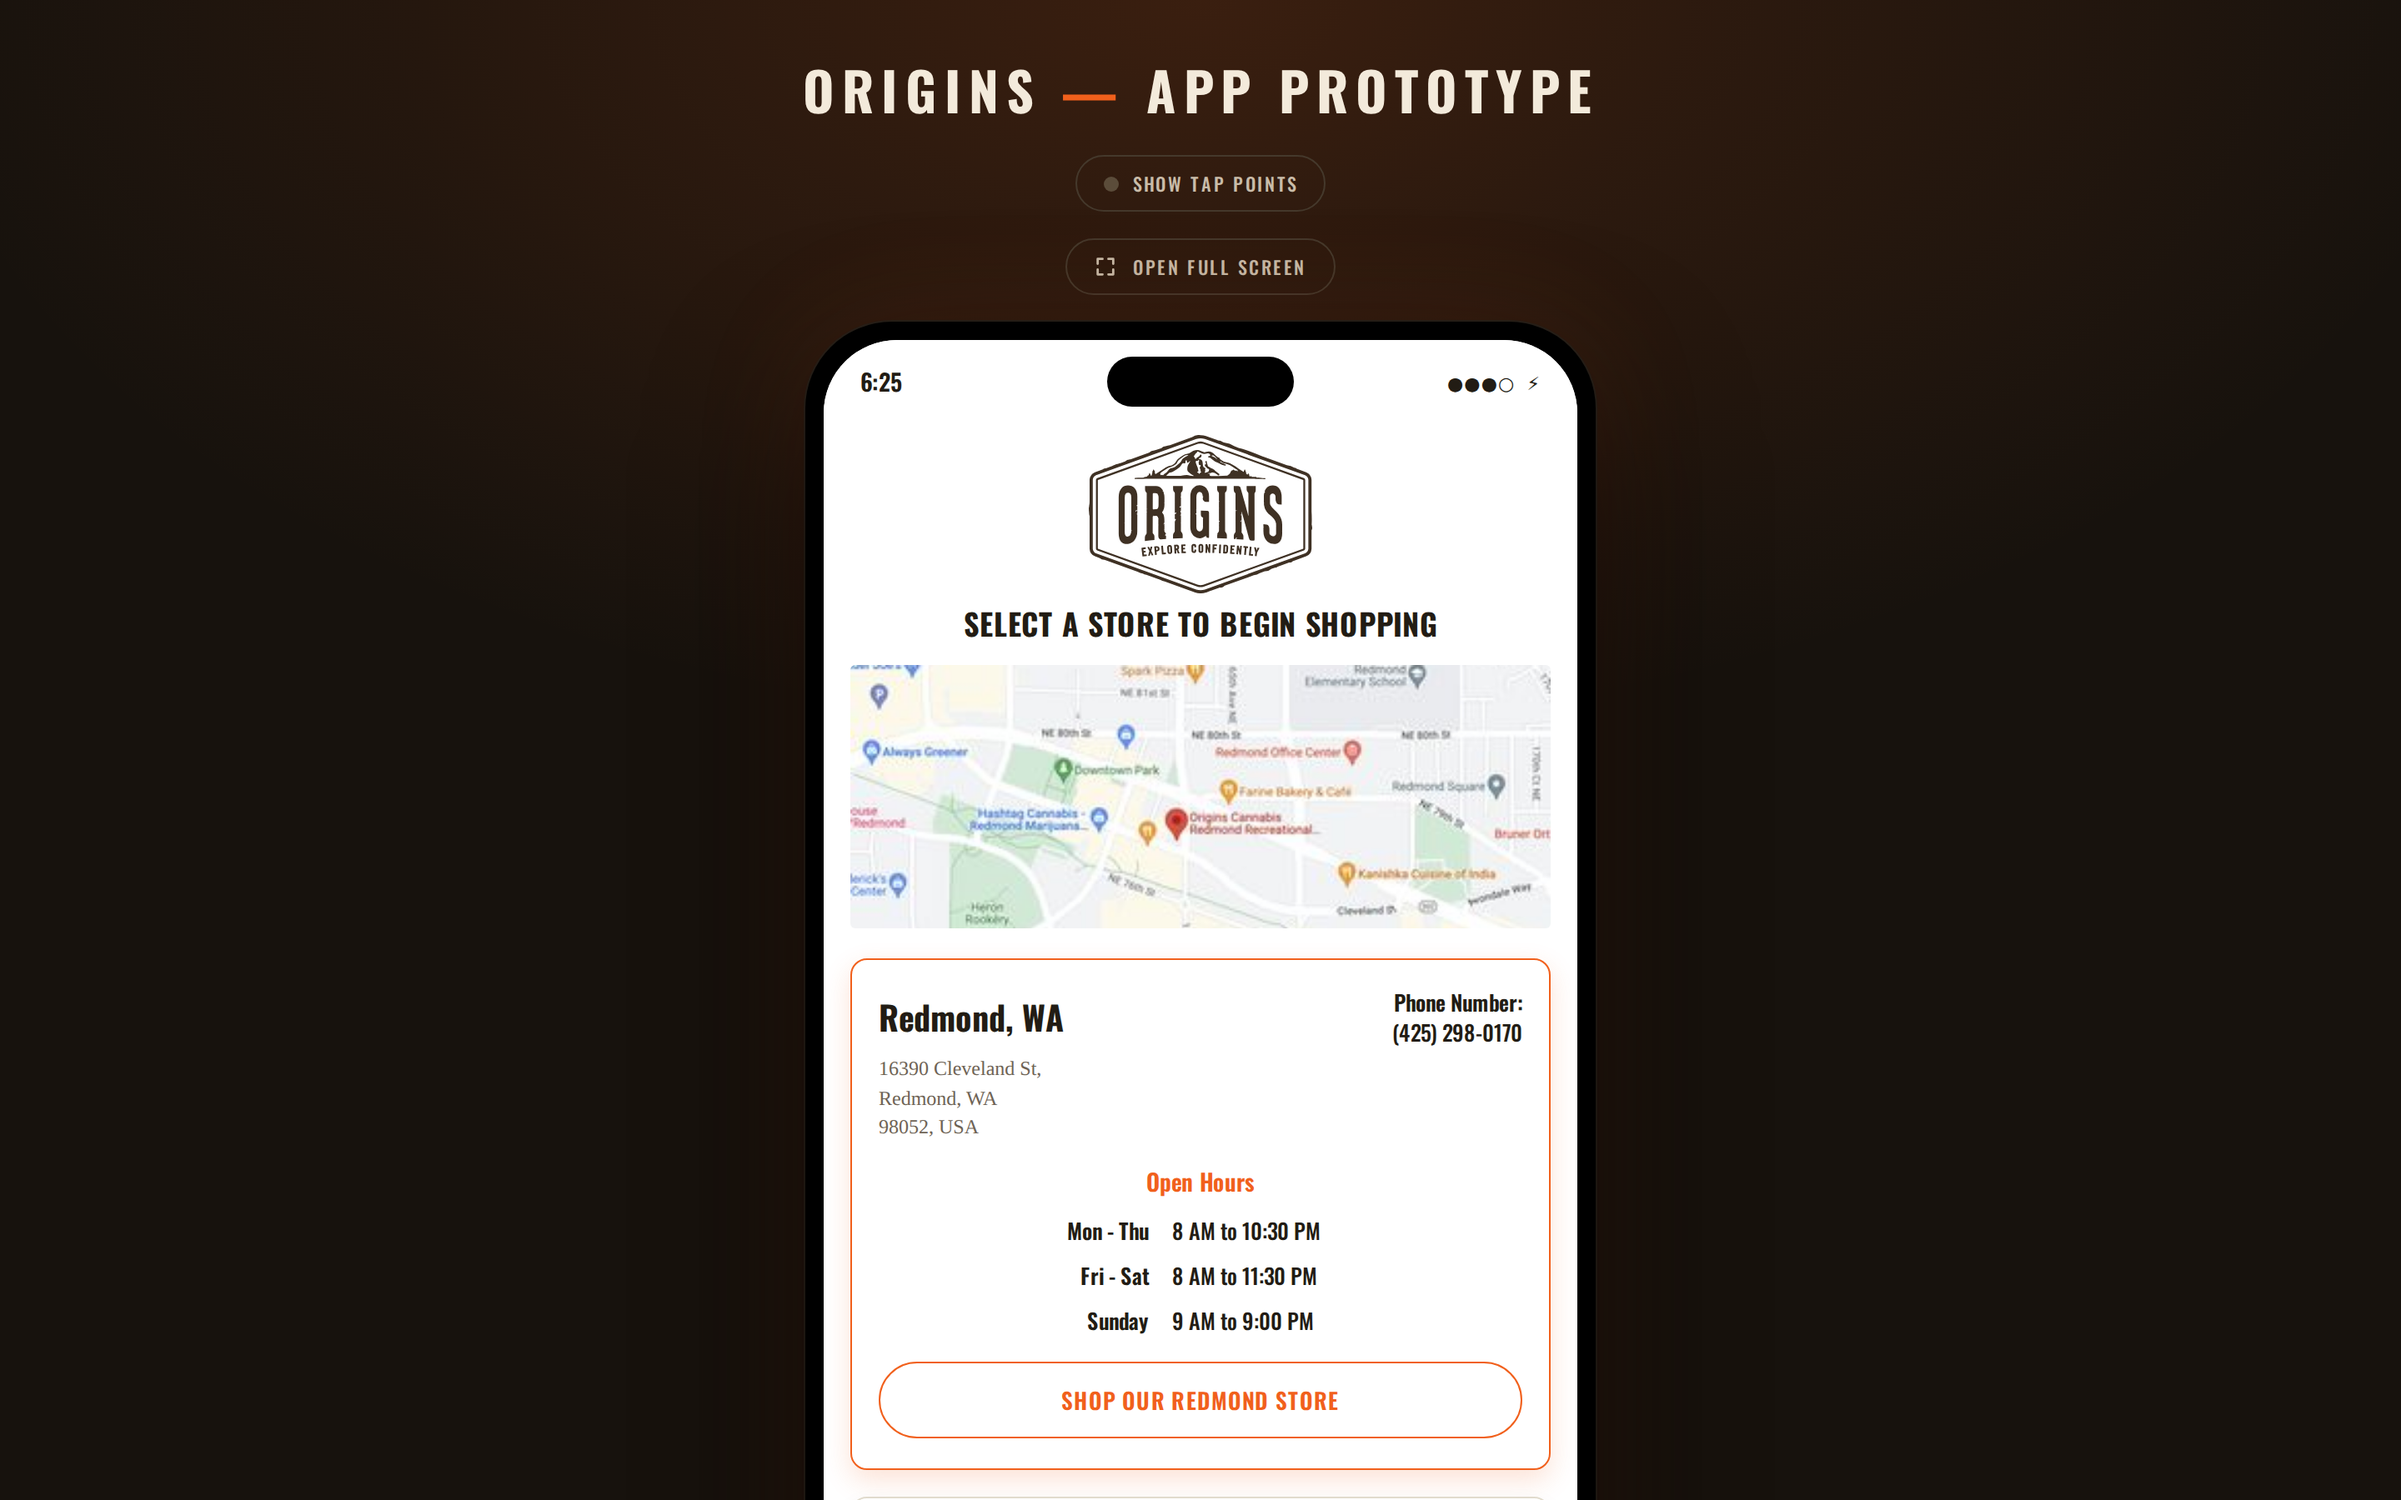
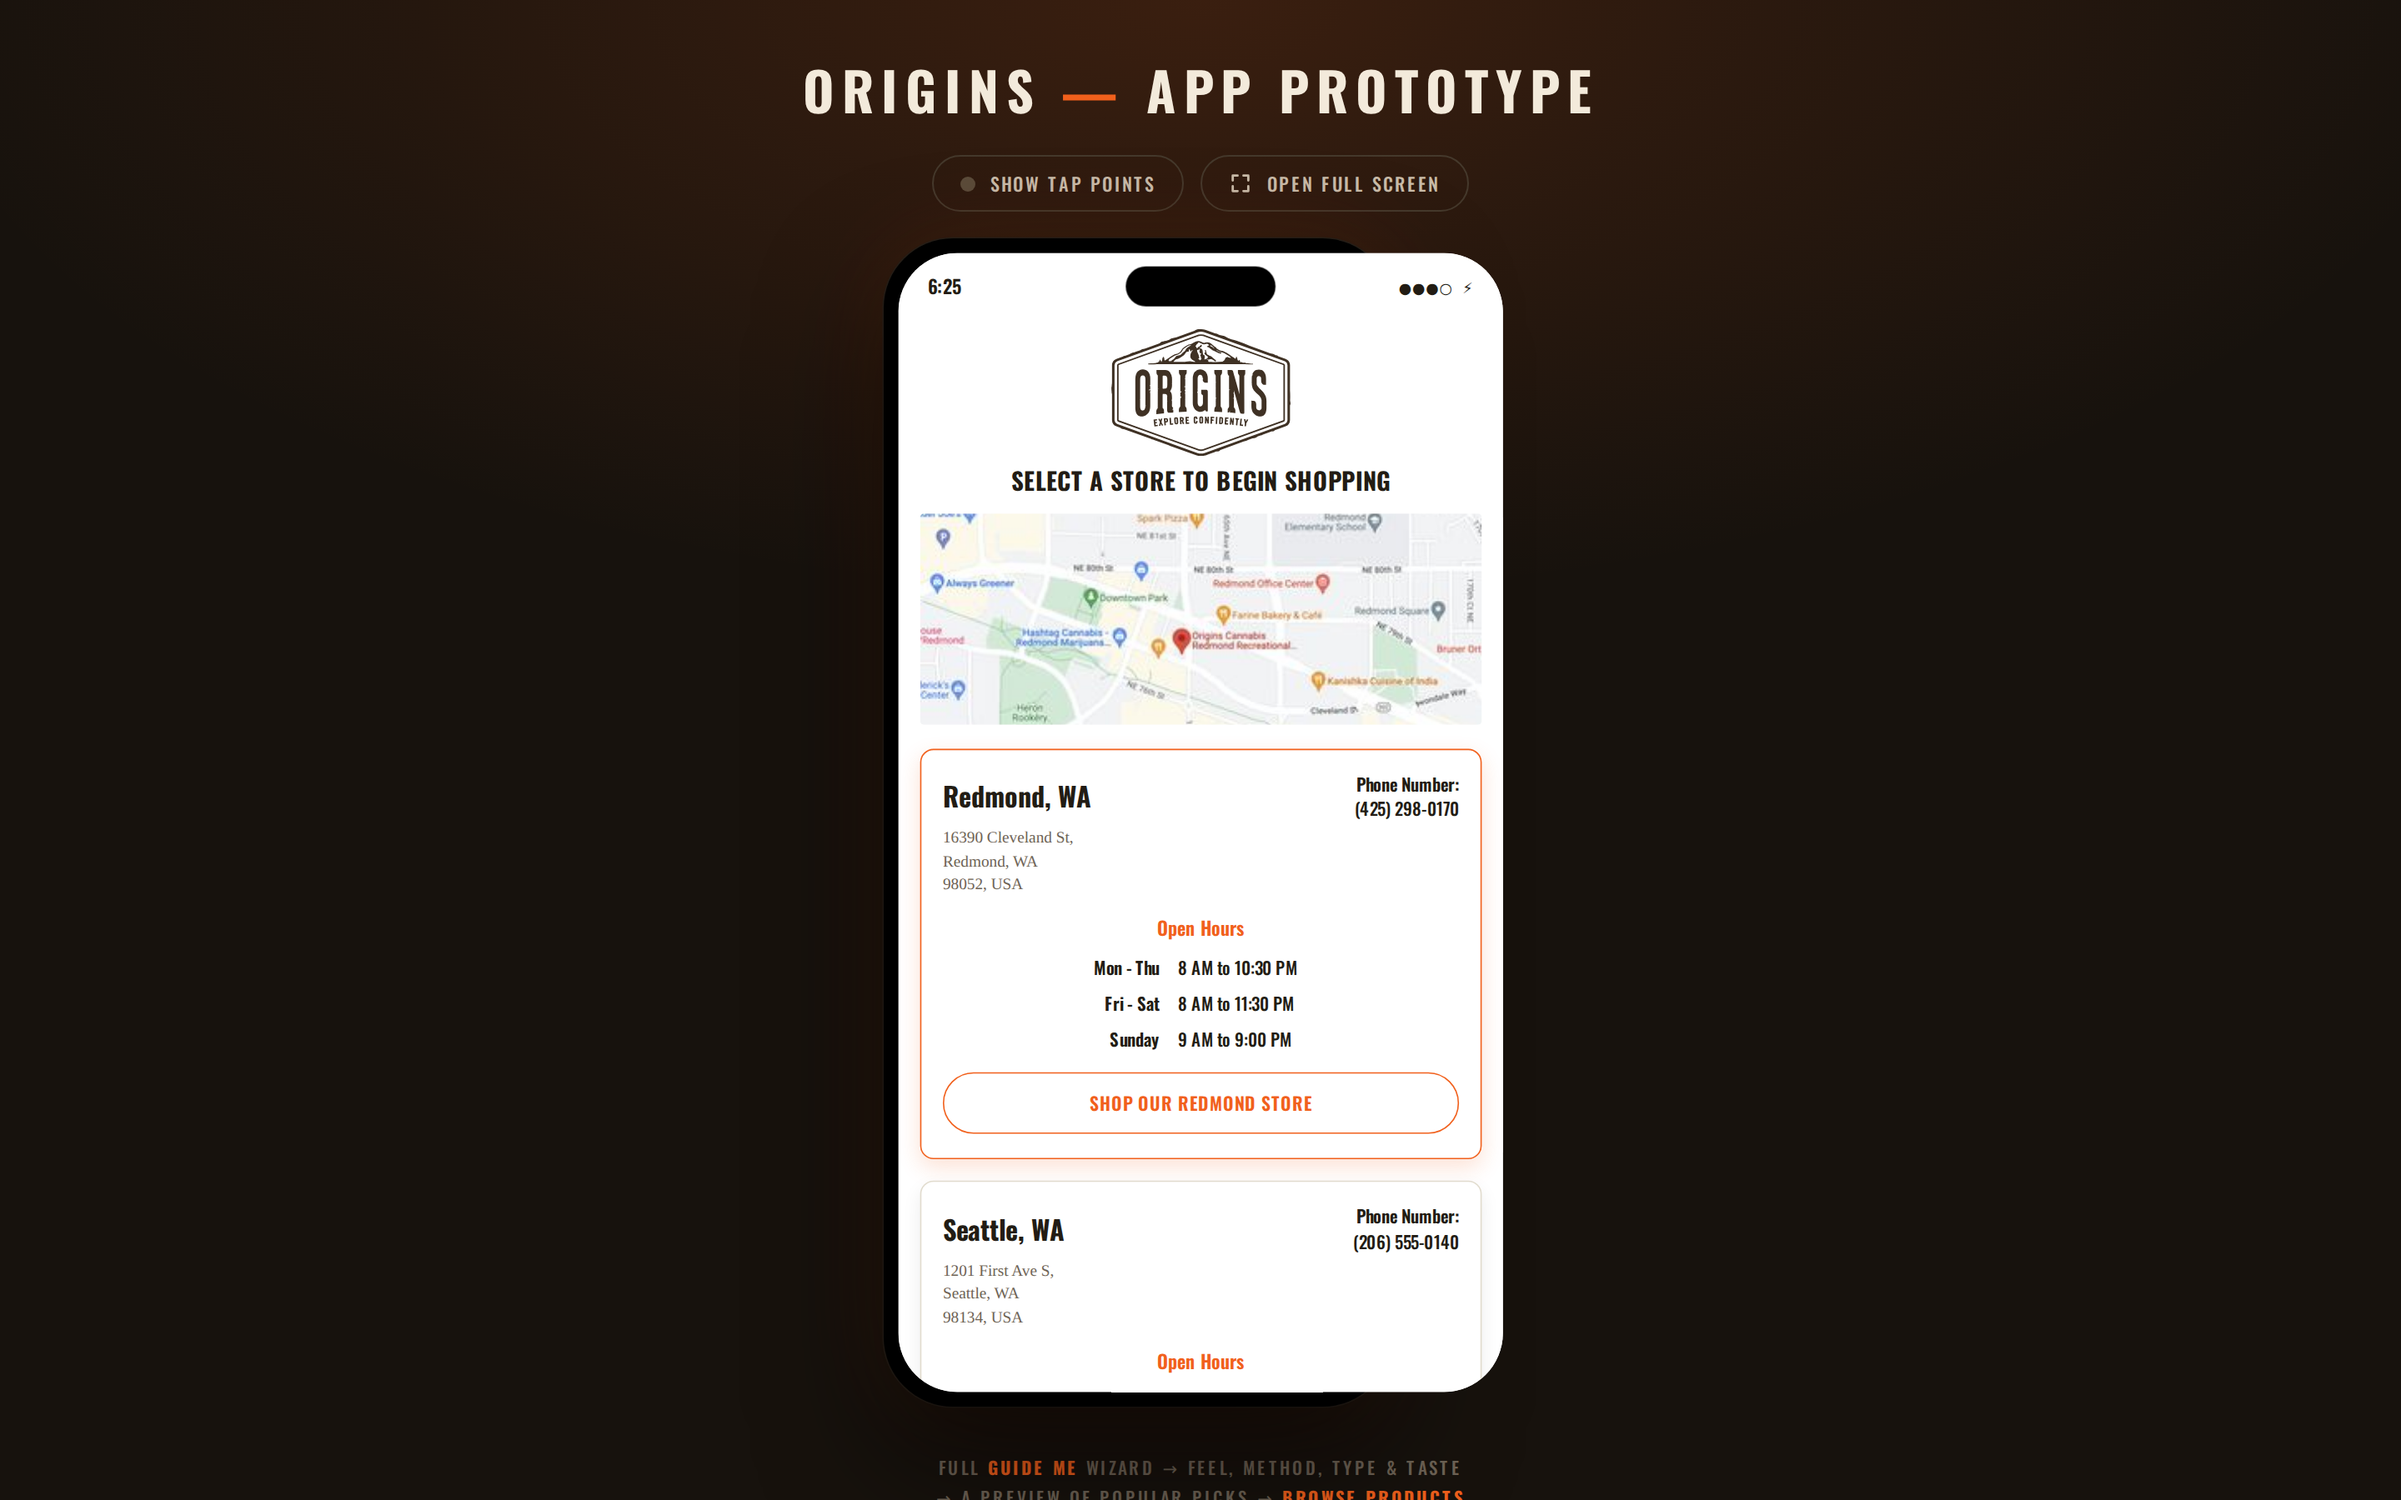
Origins app: cap the desktop frame at iPhone 16 Pro Max and fit the window
Framed desktop rendered at scale 1.0, so the phone stood 852px plus the page
header and ran off the bottom of a normal Chrome window — you had to zoom out
to see it whole.

Desktop is now capped at 440pt wide (iPhone 16 Pro Max, the largest real
screen) and additionally scaled down to fit the viewport. The chrome above is
measured from the phone's own offset rather than guessed, so the fit survives
a change to the header.

The two stage controls now share a row instead of stacking, which buys the
phone about 50px of height at every window size.

Full screen is untouched: still 452 wide scaled to the device, still filling a
393x852 phone exactly.

Claude-Session: https://claude.ai/code/session_0114S9PS2ZR2tgav64jPspky

Changed region(s): [[0.3125, 0.1556, 0.6875, 1.0], [0.4062, 0.0933, 0.5938, 0.1244]]

diff --git a/reference/origins/hifi-build/origins-app.src.html b/reference/origins/hifi-build/origins-app.src.html
@@ -26,6 +26,7 @@ h1,h2,h3,h4{margin:0;font-family:var(--head);text-transform:uppercase;line-heigh
 .taptoggle.on{border-color:var(--or);color:var(--or)}
 .taptoggle.on .d{background:var(--or);box-shadow:0 0 0 3px rgba(241,96,28,.3)}
 
+.stagebtns{display:flex;gap:10px;flex-wrap:wrap;justify-content:center}
 .phonebox{position:relative}   /* JS sizes this to the scaled phone so the page stays tight */
 .phone{background:#000;border-radius:52px;padding:11px;box-shadow:0 40px 90px rgba(0,0,0,.6),0 0 0 1px #2A2119,0 0 70px rgba(241,96,28,.13);transform-origin:top left}
 /* phone frame — widened 15% over iPhone 393w (→452) so 2-up grids have room */
@@ -518,8 +519,10 @@ body.fs .fsexit{position:absolute;left:14px;top:14px;z-index:210;display:inline-
     <div class="t">ORIGINS <em>&mdash;</em> APP PROTOTYPE</div>
     <div class="s">Explore confidently &middot; Redmond, WA</div>
   </div>
+  <div class="stagebtns">
   <button class="taptoggle" id="taptoggle" type="button"><span class="d"></span>Show tap points</button>
   <button class="fsopen" id="fsopen" type="button"><svg viewBox="0 0 24 24" fill="none" stroke="currentColor" stroke-linecap="round" stroke-linejoin="round"><path d="M4 9V4h5M20 15v5h-5M15 4h5v5M9 20H4v-5"/></svg>Open full screen</button>
+  </div>
 
   <div class="phonebox" id="phonebox"><div class="phone" id="phone"><div class="scr" id="scr">
     <button class="fsexit" id="fsexit" type="button"><svg viewBox="0 0 24 24" fill="none" stroke="currentColor" stroke-linecap="round" stroke-linejoin="round"><path d="M6 6l12 12M18 6L6 18"/></svg>Exit</button>
@@ -925,7 +928,7 @@ function linePrice(p,size,q){
     m.content=m.content+",viewport-fit=cover";
   }
 })();
-var DESIGN_W=452, DESIGN_H=852;
+var DESIGN_W=452, DESIGN_H=852, MAX_K=440/452;  /* 440pt = iPhone 16 Pro Max */
 function fitFrame(){
   var box=document.getElementById("phonebox"),ph=document.getElementById("phone"),
       scr=document.getElementById("scr");
@@ -937,9 +940,13 @@ function fitFrame(){
     k=vw/(DESIGN_W+bez);
     h=Math.round(vh/k);                                /* let height run to fill */
   }else{
-    /* width is the only constraint: full size whenever it fits, and the page
-       scrolls rather than shrinking the phone on a short window */
-    k=Math.min(1,(vw-32)/(DESIGN_W+bez));
+    /* Desktop: never larger than a 16 Pro Max screen (440pt wide), and always
+       short enough to see the whole phone without zooming the browser out.
+       The chrome above is measured rather than guessed, so the fit holds if
+       the header ever changes. */
+    var top=box.offsetTop||0, availH=vh-top-56;
+    k=Math.min(MAX_K,(vw-32)/(DESIGN_W+bez),availH/(DESIGN_H+bez));
+    k=Math.max(k,0.5);
     h=DESIGN_H;
   }
   scr.style.height=h+"px";
